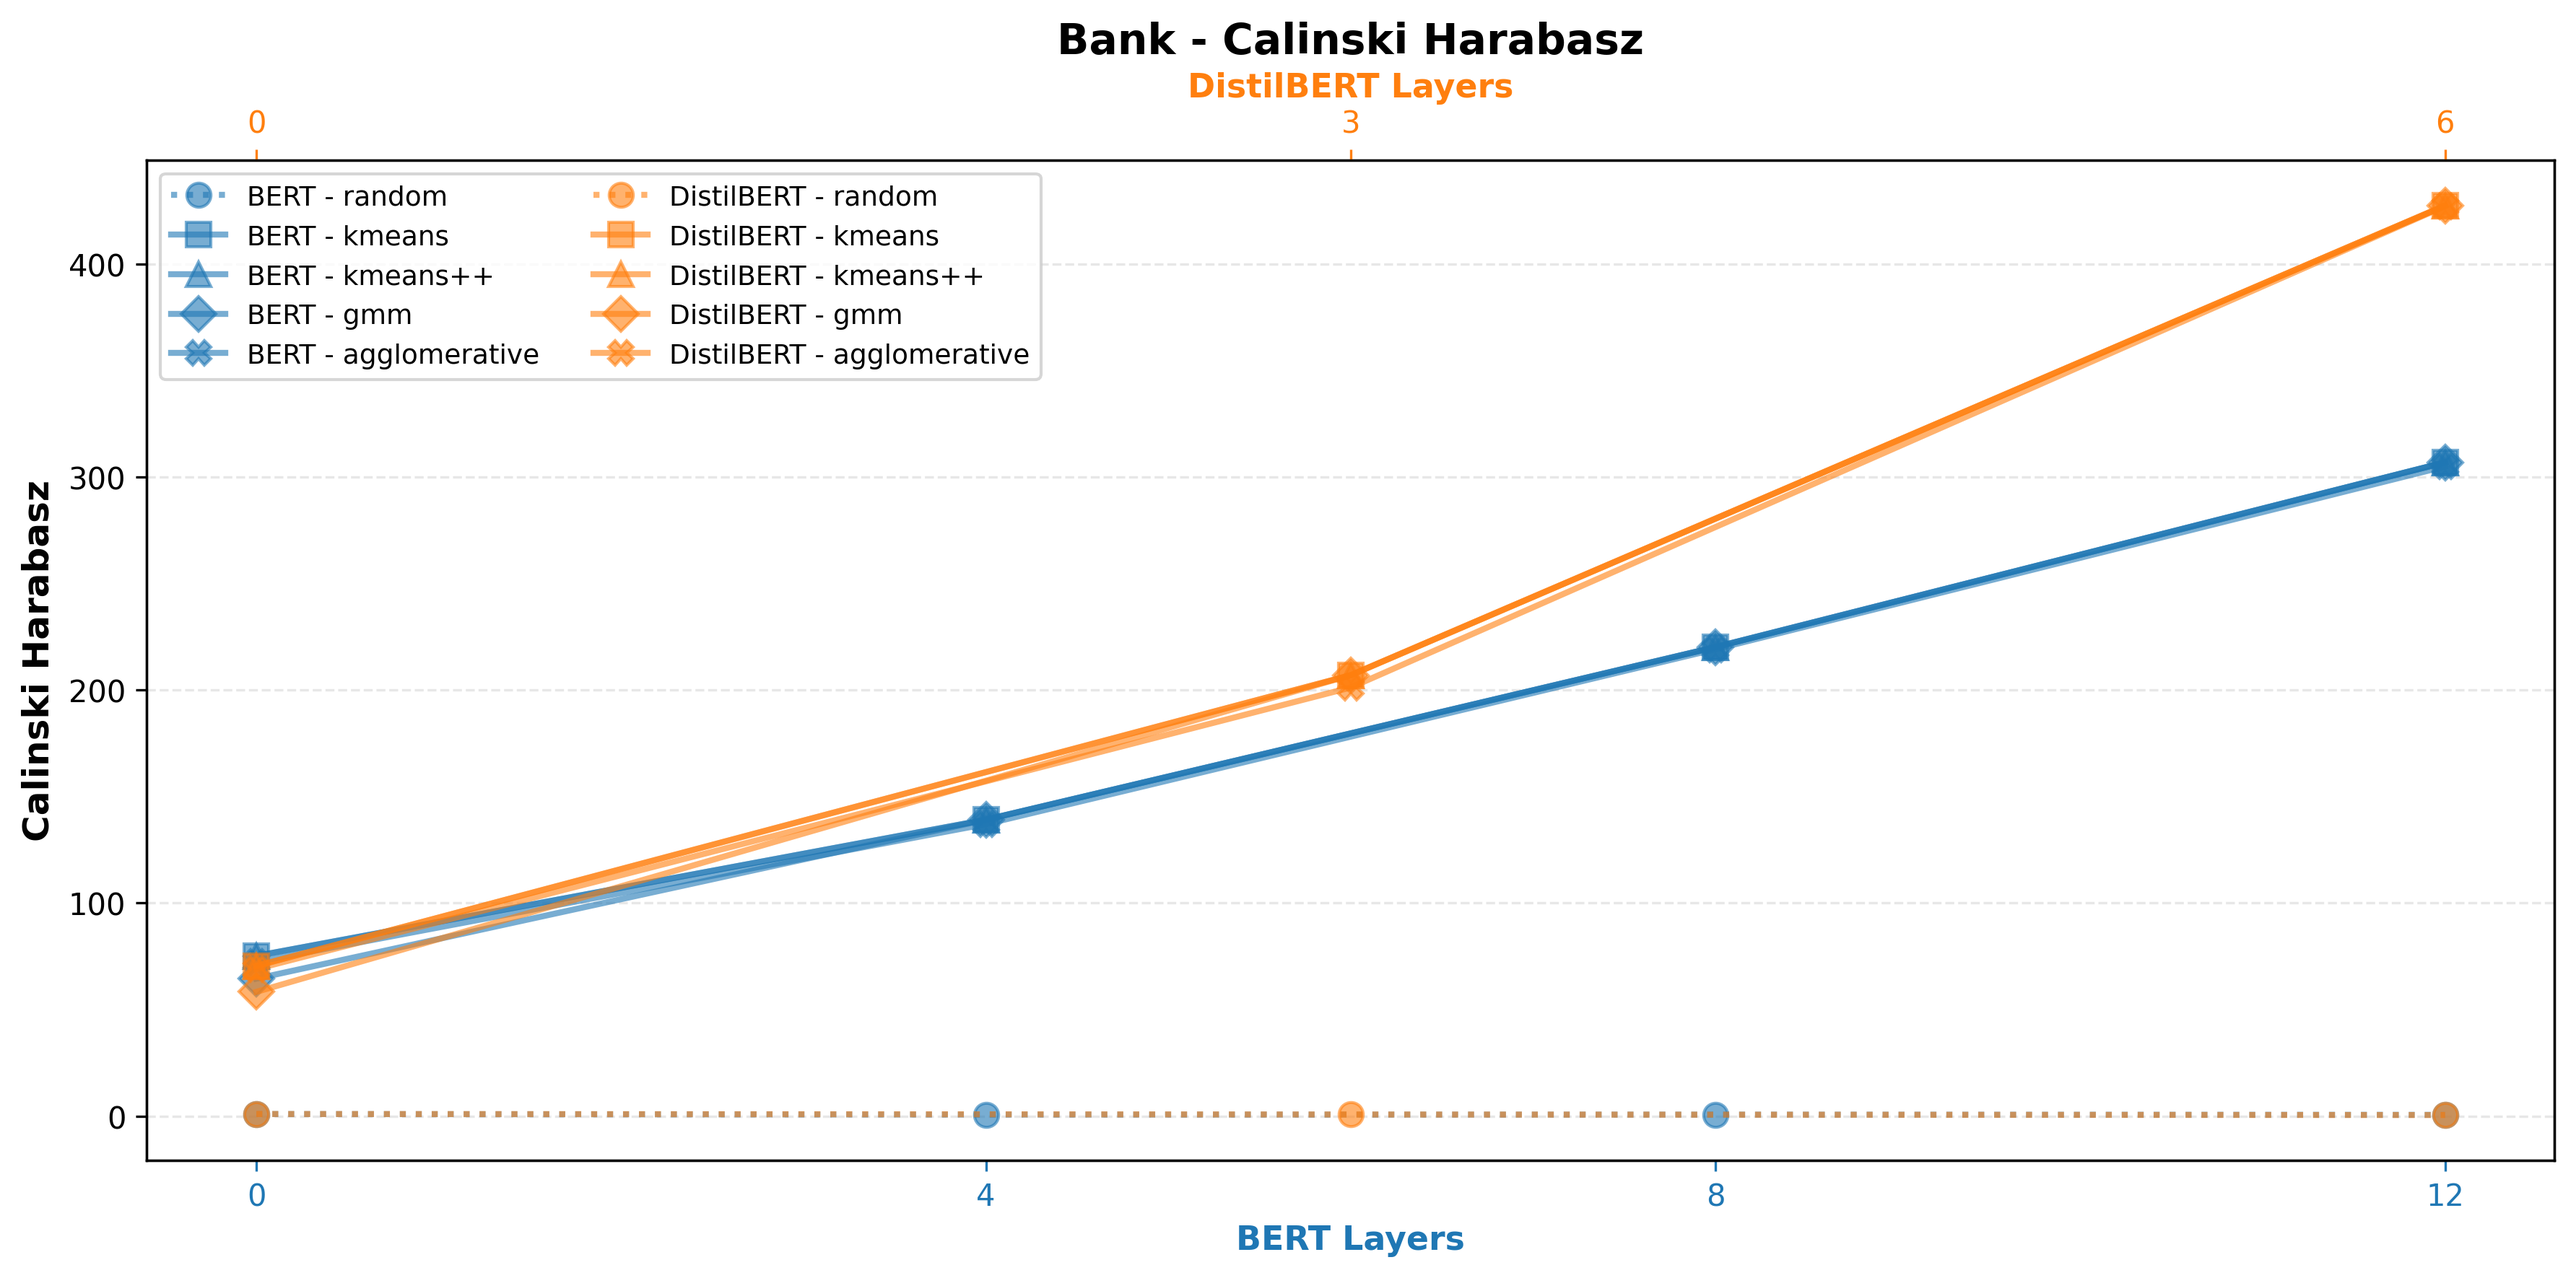
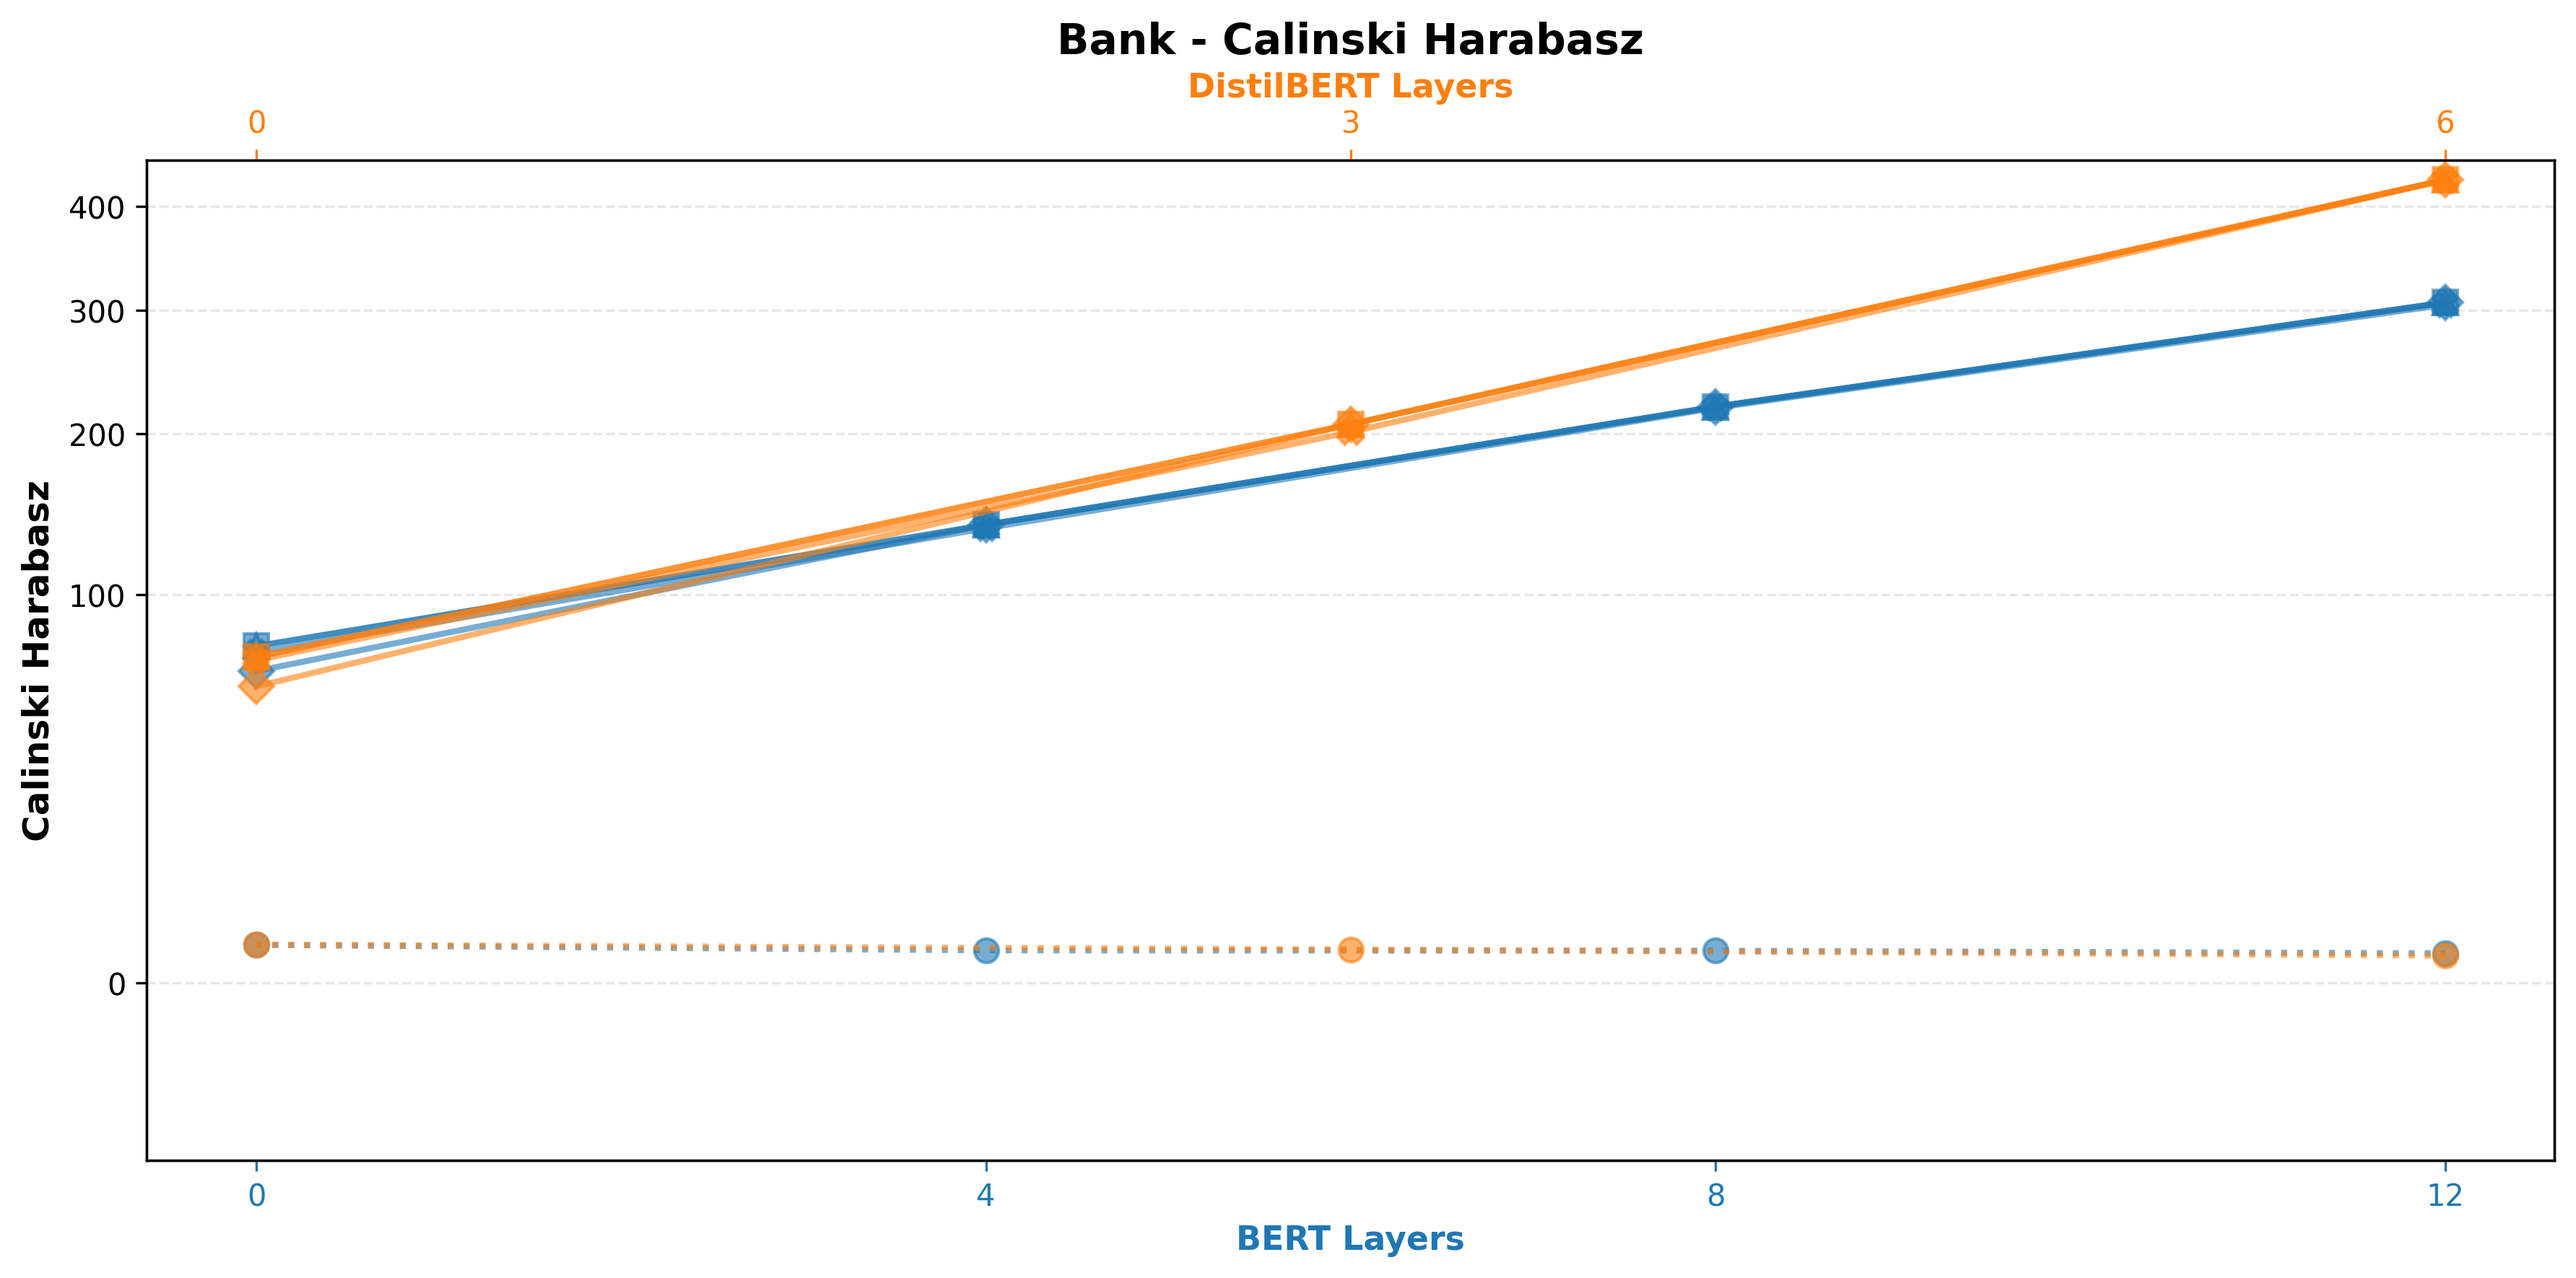
feat: plot sqrt scale

diff --git a/scripts/plot_metrics.py b/scripts/plot_metrics.py
@@ -10,6 +10,7 @@ from collections import defaultdict
 from typing import Dict, List, Tuple
 
 import matplotlib.pyplot as plt
+from matplotlib.scale import FuncScale
 import numpy as np
 
 REPO_ROOT = Path(__file__).resolve().parents[1]
@@ -143,7 +144,9 @@ def plot_metric_by_lemma(
                 continue
 
             # Extract values in layer order
-            values = [data[lemma].get(layer, np.nan) for layer in layers]
+            values = np.array(
+                [data[lemma].get(layer, np.nan) for layer in layers], dtype=float
+            )
 
             # Skip if all values are NaN
             if all(np.isnan(v) for v in values):
@@ -259,8 +262,30 @@ def plot_metric_by_lemma(
         fontweight="bold",
     )
     ax.grid(True, alpha=0.3, linestyle="--", axis="y")
-    ax.legend(loc="best", fontsize=9, ncol=2)
 
+    def scale_forward(x):
+        # Handle negative and zero values gracefully for arrays or scalars
+        x = np.asarray(x)
+        res = np.empty_like(x, dtype=float)
+        neg_mask = x < 0
+        pos_mask = x >= 0
+        res[neg_mask] = -np.sqrt(-x[neg_mask])
+        res[pos_mask] = np.sqrt(x[pos_mask])
+        return res
+
+    def scale_inverse(x):
+        x = np.asarray(x)
+        res = np.empty_like(x, dtype=float)
+        neg_mask = x < 0
+        pos_mask = x >= 0
+        res[neg_mask] = -np.power(-x[neg_mask], 2)
+        res[pos_mask] = np.power(x[pos_mask], 2)
+
+        return res
+
+    yscale = FuncScale(ax, functions=(scale_forward, scale_inverse))
+
+    ax.set_yscale(yscale)
     plt.tight_layout()
 
     # Save plot

diff --git a/src/analysis/metrics.py b/src/analysis/metrics.py
@@ -4,7 +4,7 @@ from abc import ABC, abstractmethod
 from typing import Mapping, Sequence
 
 import numpy as np
-from sklearn.cluster import KMeans, AgglomerativeClustering, SpectralClustering
+from sklearn.cluster import KMeans, AgglomerativeClustering
 from sklearn.mixture import GaussianMixture
 from sklearn.metrics import (
     silhouette_score,
